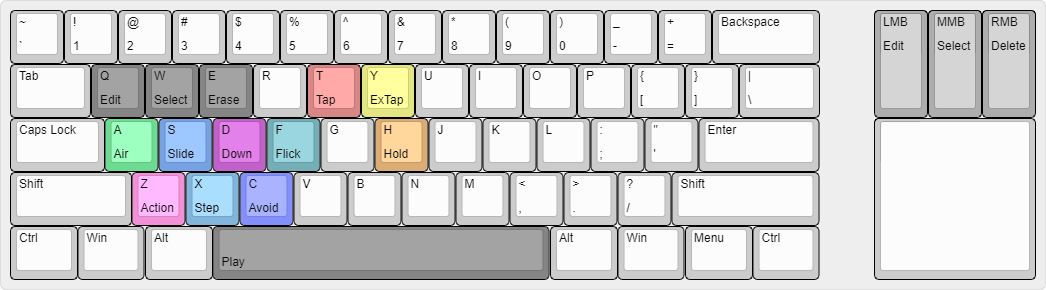
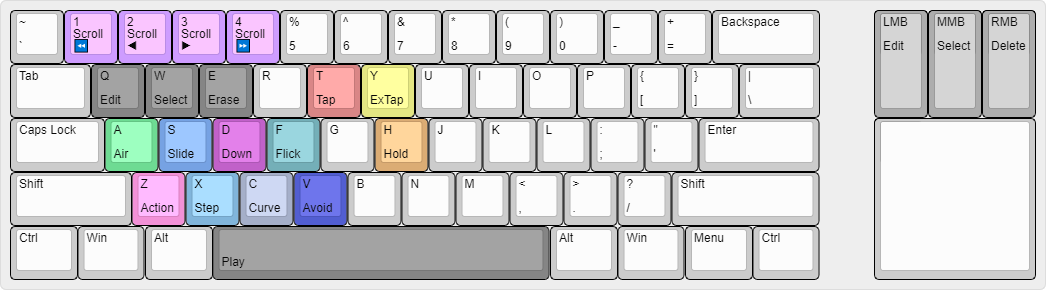
Add curve import/export, add scroll shortcuts

Changed region(s): [[0.0612, 0.031, 0.2753, 0.2172], [0.2141, 0.5897, 0.3365, 0.7759]]

diff --git a/Ched/UI/MainForm.cs b/Ched/UI/MainForm.cs
@@ -923,6 +923,7 @@ namespace Ched.UI
             {
                 noteView.NewNoteType = NoteType.Slide;
                 noteView.IsNewSlideStepVisible = false;
+                noteView.IsNewSlideStepCurve = false;
             })
             {
                 DisplayStyle = ToolStripItemDisplayStyle.Image
@@ -931,6 +932,16 @@ namespace Ched.UI
             {
                 noteView.NewNoteType = NoteType.Slide;
                 noteView.IsNewSlideStepVisible = true;
+                noteView.IsNewSlideStepCurve = false;
+            })
+            {
+                DisplayStyle = ToolStripItemDisplayStyle.Image
+            };
+            var slideCurveButton = new ToolStripButton(MainFormStrings.SlideCurve , Resources.SlideCurveIcon, (s, e) =>
+            {
+                noteView.NewNoteType = NoteType.Slide;
+                noteView.IsNewSlideStepVisible = false;
+                noteView.IsNewSlideStepCurve = true;
             })
             {
                 DisplayStyle = ToolStripItemDisplayStyle.Image
@@ -1001,8 +1012,9 @@ namespace Ched.UI
                 tapButton.Checked = noteView.NewNoteType.HasFlag(NoteType.Tap);
                 exTapButton.Checked = noteView.NewNoteType.HasFlag(NoteType.ExTap);
                 holdButton.Checked = noteView.NewNoteType.HasFlag(NoteType.Hold);
-                slideButton.Checked = noteView.NewNoteType.HasFlag(NoteType.Slide) && !noteView.IsNewSlideStepVisible;
-                slideStepButton.Checked = noteView.NewNoteType.HasFlag(NoteType.Slide) && noteView.IsNewSlideStepVisible;
+                slideButton.Checked = noteView.NewNoteType.HasFlag(NoteType.Slide) && !noteView.IsNewSlideStepVisible && !noteView.IsNewSlideStepCurve;
+                slideStepButton.Checked = noteView.NewNoteType.HasFlag(NoteType.Slide) && noteView.IsNewSlideStepVisible && !noteView.IsNewSlideStepCurve;
+                slideCurveButton.Checked = noteView.NewNoteType.HasFlag(NoteType.Slide) && !noteView.IsNewSlideStepVisible && noteView.IsNewSlideStepCurve;
                 airKind.Checked = noteView.NewNoteType.HasFlag(NoteType.Air);
                 airActionButton.Checked = noteView.NewNoteType.HasFlag(NoteType.AirAction);
                 flickButton.Checked = noteView.NewNoteType.HasFlag(NoteType.Flick);
@@ -1029,7 +1041,7 @@ namespace Ched.UI
 
             return new ToolStrip(new ToolStripItem[]
             {
-                tapButton, exTapButton, holdButton, slideButton, slideStepButton, airKind, airActionButton, flickButton, damageButton,
+                tapButton, exTapButton, holdButton, slideButton, slideStepButton, slideCurveButton, airKind, airActionButton, flickButton, damageButton,
                 quantizeComboBox
             });
         }
@@ -1064,10 +1076,17 @@ namespace Ched.UI
                     case Keys.S:
                         NoteView.NewNoteType = NoteType.Slide;
                         NoteView.IsNewSlideStepVisible = false;
+                        NoteView.IsNewSlideStepCurve = false;
                         break;
                     case Keys.X:
                         NoteView.NewNoteType = NoteType.Slide;
                         NoteView.IsNewSlideStepVisible = true;
+                        NoteView.IsNewSlideStepCurve = false;
+                        break;
+                    case Keys.C:
+                        NoteView.NewNoteType = NoteType.Slide;
+                        NoteView.IsNewSlideStepVisible = false;
+                        NoteView.IsNewSlideStepCurve = true;
                         break;
                     case Keys.A:
                         if (NoteView.EditMode != EditMode.Edit || NoteView.NewNoteType != NoteType.Air || NoteView.AirDirection.VerticalDirection != VerticalAirDirection.Up)
@@ -1120,8 +1139,20 @@ namespace Ched.UI
                     case Keys.F:
                         NoteView.NewNoteType = NoteType.Flick;
                         break;
-                    case Keys.C:
+                    case Keys.V:
                         NoteView.NewNoteType = NoteType.Damage;
+                        break;
+                    case Keys.D1:
+                        NoteView.ScrollRelative(-1.0);
+                        break;
+                    case Keys.D2:
+                        NoteView.ScrollRelative(-0.1);
+                        break;
+                    case Keys.D3:
+                        NoteView.ScrollRelative(0.1);
+                        break;
+                    case Keys.D4:
+                        NoteView.ScrollRelative(1.0);
                         break;
                 }
             };

diff --git a/Ched/UI/NoteView.cs b/Ched/UI/NoteView.cs
@@ -47,6 +47,7 @@ namespace Ched.UI
         private NoteType newNoteType = NoteType.Tap;
         private AirDirection airDirection = new AirDirection(VerticalAirDirection.Up, HorizontalAirDirection.Center);
         private bool isNewSlideStepVisible = true;
+        private bool isNewSlideStepCurve = true;
         private bool playing = false;
         private bool isFollowWhenPlaying = false;
 
@@ -305,6 +306,16 @@ namespace Ched.UI
             }
         }
 
+        public bool IsNewSlideStepCurve
+        {
+            get { return isNewSlideStepCurve; }
+            set
+            {
+                isNewSlideStepCurve = value;
+                NewNoteTypeChanged?.Invoke(this, EventArgs.Empty);
+            }
+        }
+
         public bool Playing
         {
             get { return playing; }
@@ -385,6 +396,7 @@ namespace Ched.UI
                 HoldColor = new GradientColor(Color.FromArgb(196, 86, 0), Color.FromArgb(244, 156, 102)),
                 HoldBackgroundColor = new GradientColor(Color.FromArgb(196, 166, 44, 168), Color.FromArgb(196, 216, 216, 0)),
                 SlideColor = new GradientColor(Color.FromArgb(0, 16, 138), Color.FromArgb(86, 106, 255)),
+                SlideCurveColor = new GradientColor(Color.FromArgb(128, 128, 138), Color.FromArgb(128, 128, 255)),
                 SlideLineColor = Color.FromArgb(196, 0, 214, 192),
                 SlideBackgroundColor = new GradientColor(Color.FromArgb(196, 166, 44, 168), Color.FromArgb(196, 0, 164, 146)),
                 AirUpColor = Color.FromArgb(28, 206, 22),
@@ -1172,7 +1184,8 @@ namespace Ched.UI
                                                 var newStep = new Slide.StepTap(note)
                                                 {
                                                     TickOffset = tickOffset,
-                                                    IsVisible = IsNewSlideStepVisible
+                                                    IsVisible = IsNewSlideStepVisible,
+                                                    IsCurve = IsNewSlideStepCurve
                                                 };
                                                 newStep.SetPosition(laneIndex - note.StartLaneIndex, width - note.StartWidth);
                                                 note.StepNotes.Add(newStep);
@@ -1712,8 +1725,18 @@ namespace Ched.UI
                     if (!Editable && !step.IsVisible) continue;
                     if (Notes.GetReferencedAir(step).Count() > 0) break; // AIR付き終点
                     RectangleF rect = GetRectFromNotePosition(step.Tick, step.LaneIndex, step.Width);
-                    if (step.IsVisible) dc.DrawSlideStep(rect);
-                    else dc.DrawBorder(rect);
+                    if (step.IsVisible)
+                    {
+                        dc.DrawSlideStep(rect);
+                    }
+                    else if (step.IsCurve)
+                    {
+                        dc.DrawSlideCurve(rect);
+                    }
+                    else
+                    {
+                        dc.DrawBorder(rect);
+                    }
                 }
             }
 
@@ -2213,6 +2236,11 @@ namespace Ched.UI
             }
             ScoreEvents = score.Events;
             Invalidate();
+        }
+
+        public void ScrollRelative(double distance)
+        {
+            HeadTick = HeadTick + (int) ((TailTick - HeadTick) * distance);
         }
 
         public class NoteCollection

diff --git a/Ched/Components/Exporter/SusExporter.cs b/Ched/Components/Exporter/SusExporter.cs
@@ -172,8 +172,23 @@ namespace Ched.Components.Exporter
                             Tick = p.Tick,
                             LaneIndex = p.LaneIndex,
                             Width = p.Width,
-                            Type = p.IsVisible ? "3" : "5"
-                        }).Take(slide.Note.StepNotes.Count - 1);
+                            Type = p.IsVisible ? "3" : (p.IsCurve ? "4": "5")
+                        }).Take(slide.Note.StepNotes.Count - 1).ToArray();
+                        // Filter out consecutive curves
+                        var lastStepType = steps[0].Type;
+                        for (int i = 1; i < steps.Count(); i++)
+                        {
+                            if (lastStepType == "4" && steps[i].Type == "4")
+                            {
+                                steps[i] = new {
+                                    Tick = steps[i].Tick,
+                                    LaneIndex = slide.Note.StartLaneIndex,
+                                    Width = slide.Note.StartWidth,
+                                    Type = "5"
+                                };
+                            }
+                            lastStepType = steps[i].Type;
+                        }
                         var endNote = slide.Note.StepNotes.OrderBy(p => p.TickOffset).Last();
                         var end = new[] { new
                         {

diff --git a/Ched/Plugins/SusImportPlugin.cs b/Ched/Plugins/SusImportPlugin.cs
@@ -109,13 +109,16 @@ namespace Ched.Plugins
                 };
                 foreach (var step in steps.Skip(1))
                 {
+                    /*
                     if (step.Type == '4')
                     {
-                        args.ReportDiagnostic(new Diagnostic(DiagnosticSeverity.Warning, $"スライド変曲点は中継点としてインポートされます。(行: {step.LineIndex + 1})"));
+                        args.ReportDiagnostic(new Diagnostic(DiagnosticSeverity.Warning, $"スライド変曲点は中継点としてインポートされます。(行: {step.LineIndex + 1
                     }
+                    */
                     var stepTap = new Slide.StepTap(slide)
                     {
                         IsVisible = step.Type == '3' || step.Type == '2',
+                        IsCurve = step.Type == '4',
                         TickOffset = step.Position.Tick - slide.StartTick
                     };
                     stepTap.SetPosition(step.Position.LaneIndex - slide.StartLaneIndex, step.Position.Width - slide.StartWidth);

diff --git a/Ched/Properties/Resources.Designer.cs b/Ched/Properties/Resources.Designer.cs
@@ -313,6 +313,16 @@ namespace Ched.Properties {
         /// <summary>
         ///   Looks up a localized resource of type System.Drawing.Bitmap.
         /// </summary>
+        public static System.Drawing.Bitmap SlideCurveIcon {
+            get {
+                object obj = ResourceManager.GetObject("SlideCurveIcon", resourceCulture);
+                return ((System.Drawing.Bitmap)(obj));
+            }
+        }
+        
+        /// <summary>
+        ///   Looks up a localized resource of type System.Drawing.Bitmap.
+        /// </summary>
         public static System.Drawing.Bitmap SlideIcon {
             get {
                 object obj = ResourceManager.GetObject("SlideIcon", resourceCulture);

diff --git a/Ched.Core/Notes/Slide.cs b/Ched.Core/Notes/Slide.cs
@@ -129,6 +129,8 @@ namespace Ched.Core.Notes
             private int tickOffset = 1;
             [Newtonsoft.Json.JsonProperty]
             private bool isVisible = true;
+            [Newtonsoft.Json.JsonProperty]
+            private bool isCurve = false;
 
             public int TickOffset
             {
@@ -145,6 +147,12 @@ namespace Ched.Core.Notes
             {
                 get { return isVisible; }
                 set { isVisible = value; }
+            }
+
+            public bool IsCurve
+            {
+                get { return isCurve; }
+                set { isCurve = value; }
             }
 
             public override bool IsTap { get { return false; } }

diff --git a/Ched/Localization/MainFormStrings.Designer.cs b/Ched/Localization/MainFormStrings.Designer.cs
@@ -574,6 +574,15 @@ namespace Ched.Localization {
         }
         
         /// <summary>
+        ///   Looks up a localized string similar to SLIDE(湾曲).
+        /// </summary>
+        public static string SlideCurve {
+            get {
+                return ResourceManager.GetString("SlideCurve", resourceCulture);
+            }
+        }
+        
+        /// <summary>
         ///   Looks up a localized string similar to SLIDE(中継点).
         /// </summary>
         public static string SlideStep {

diff --git a/Ched.Drawing/NoteGraphics.cs b/Ched.Drawing/NoteGraphics.cs
@@ -78,6 +78,11 @@ namespace Ched.Drawing
             dc.Graphics.DrawNote(rect, dc.ColorProfile.SlideColor, dc.ColorProfile.BorderColor);
         }
 
+        public static void DrawSlideCurve(this DrawingContext dc, RectangleF rect)
+        {
+            dc.Graphics.DrawNote(rect, dc.ColorProfile.SlideCurveColor, dc.ColorProfile.BorderColor);
+        }
+
         /// <summary>
         /// SLIDEの背景を描画します。
         /// </summary>

diff --git a/Ched.Drawing/ColorProfile.cs b/Ched.Drawing/ColorProfile.cs
@@ -35,6 +35,7 @@ namespace Ched.Drawing
         public GradientColor HoldColor { get; set; }
         public GradientColor SlideBackgroundColor { get; set; }
         public GradientColor SlideColor { get; set; }
+        public GradientColor SlideCurveColor { get; set; }
         public Color SlideLineColor { get; set; }
         public GradientColor AirActionColor { get; set; }
         public Color AirUpColor { get; set; }

diff --git a/Ched/Properties/AssemblyInfo.cs b/Ched/Properties/AssemblyInfo.cs
@@ -12,6 +12,6 @@ using System.Windows.Media;
 [assembly: ComVisible(false)]
 [assembly: Guid("4c0c9f98-6fcf-4d2f-b821-37a66362dc75")]
 
-[assembly: AssemblyVersion("3.0.1.0")]
+[assembly: AssemblyVersion("3.0.1.1")]
 
 [assembly: DisableDpiAwareness]

diff --git a/README.md b/README.md
@@ -15,6 +15,11 @@
 ![note thickness](./resources/note-thickness.png)
 
 - Pre-included .sus import from [sus2img](https://github.com/paralleltree/sus2img)
+- Added bezier curve note
+  - Import/export with .sus works
+  - Preview does not work
+  - Use at most 1 curve between every 2 slide steps
+- Added scroll up/down shortcut buttons
 
 Look in the releases panel to the right.
 
